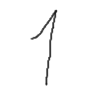
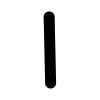
feat

Changed region(s): [[0.3, 0.09, 0.6, 0.9]]

diff --git a/scripts/digit_gen.py b/scripts/digit_gen.py
@@ -1,3 +1,4 @@
+#!/usr/bin/env python3
 import sys
 from PIL import Image
 